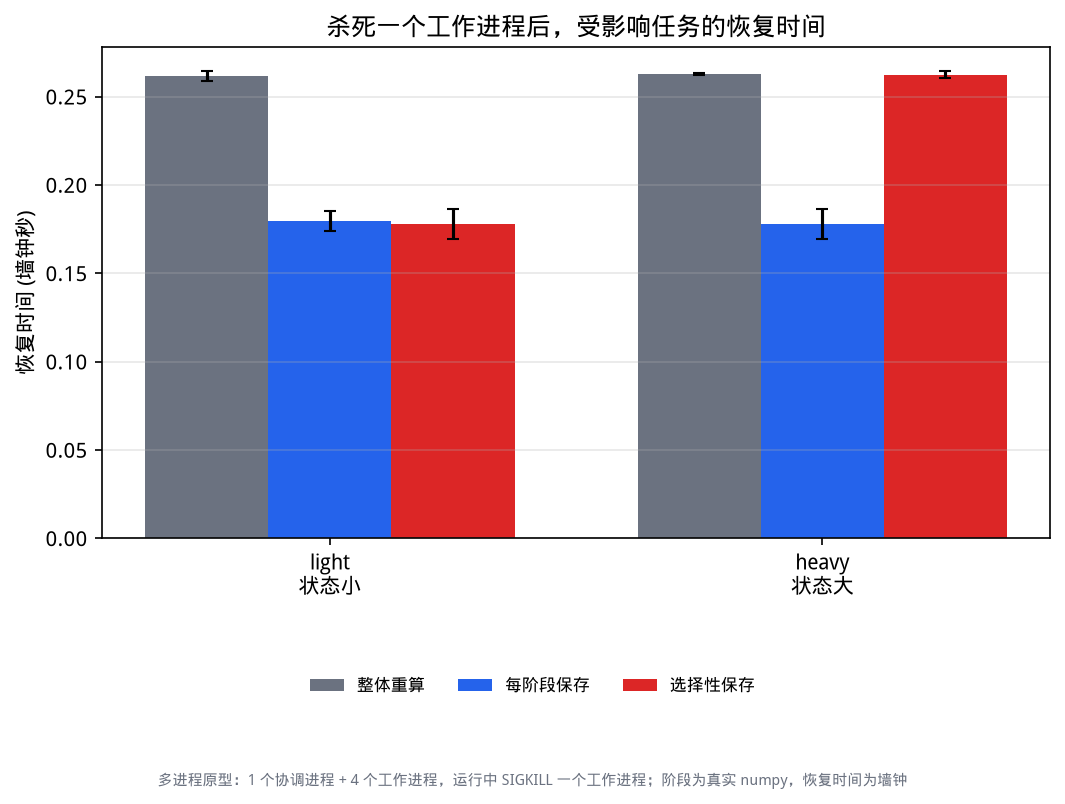
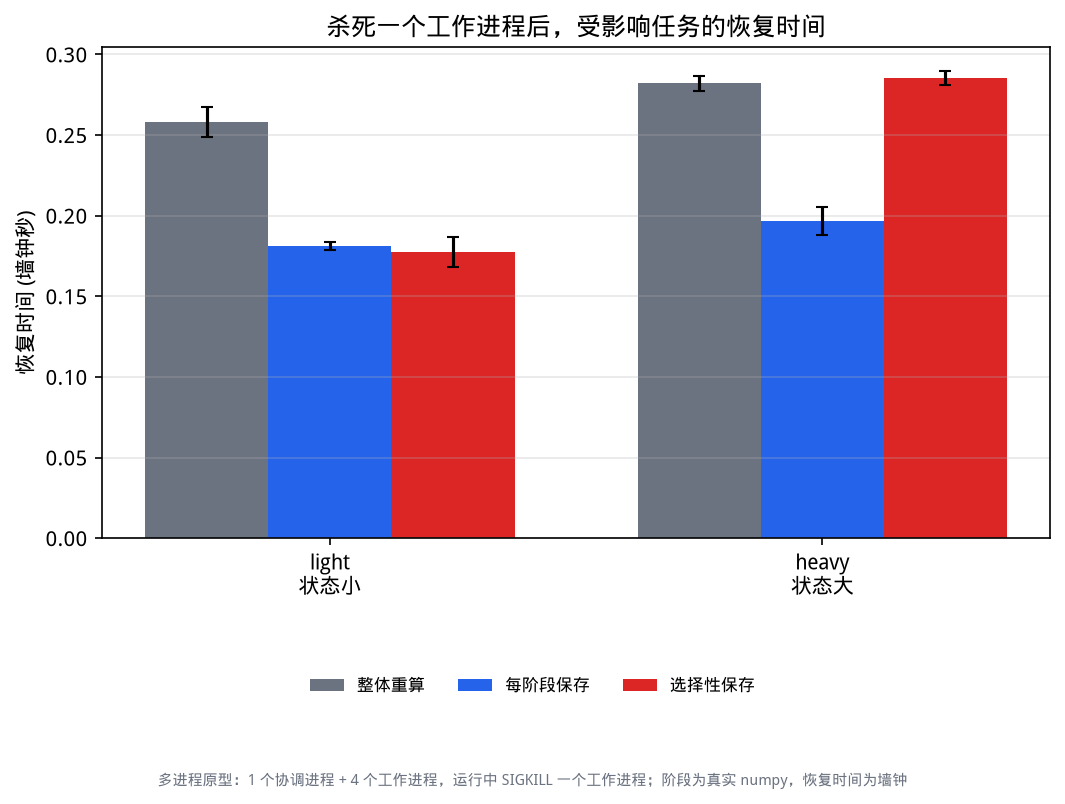
Count multiprocess state transfer as pickled queue bytes.
Large-state checkpoints now carry a real per-record payload, and the reported volume is the ForkingPickler length actually placed on the worker queue. Save-every-stage on that case stays in the tens of megabytes.

diff --git a/02-self-describing-fault-recovery/src/mp_runtime.py b/02-self-describing-fault-recovery/src/mp_runtime.py
@@ -17,6 +17,7 @@ import os
 import signal
 import threading
 import time
+from multiprocessing.reduction import ForkingPickler
 from collections import defaultdict, deque
 from dataclasses import dataclass
 from queue import Empty
@@ -28,6 +29,15 @@ from .policy import should_save
 from .task import N_KEYS, Combo, Data, TaskDesc, digest_data, global_digest, make_partition, run_stage, stage_cost_s
 
 N_STAGES = 3
+
+
+def queued_bytes(obj) -> int:
+    """Length of the pickle Queue puts on the pipe for this object.
+
+    multiprocessing uses ForkingPickler. The checkpoint body is what moves;
+    unallocated simulator padding is not part of ``Data`` and is not counted.
+    """
+    return len(ForkingPickler.dumps(obj))
 
 
 @dataclass(frozen=True)
@@ -146,12 +156,13 @@ def _worker_main(wid, in_q, out_q, combo: Combo, cfg: MpCfg, cur_task, cur_stage
                         out_q.put(("bye", wid))
                         return
                     break
-                nbytes = out.nbytes
-                if should_save(cfg.strategy, cfg.lam, acc, nbytes, cfg.bw, cfg.s0):
-                    out_q.put(("ckpt", wid, desc.task_id, stage, out, dt, cost, nbytes))
+                # P_k uses the bytes that would actually be pickled, not logical pad.
+                persist = queued_bytes(out) if cfg.strategy == "selective" else 0
+                if should_save(cfg.strategy, cfg.lam, acc, persist, cfg.bw, cfg.s0):
+                    out_q.put(("ckpt", wid, desc.task_id, stage, out, dt, cost))
                     acc = 0.0
                 else:
-                    out_q.put(("progress", wid, desc.task_id, stage, dt, cost, nbytes))
+                    out_q.put(("progress", wid, desc.task_id, stage, dt, cost))
                 ack = in_q.get()
                 if ack[0] == "shutdown":
                     out_q.put(("bye", wid))
@@ -257,6 +268,8 @@ def run_job(combo: Combo, cfg: MpCfg, kill: Optional[KillSpec] = None) -> dict:
                 "saved_stages": desc.saved_stages,
             })
             in_qs[wid].put(("assign", desc, data))
+            if desc.input_ref.startswith("ckpt:"):
+                st["recovery_load_bytes"] += queued_bytes(data)
 
     def _requeue(task_id: str):
         if task_id in done or task_id in inflight.values():
@@ -270,7 +283,6 @@ def run_job(combo: Combo, cfg: MpCfg, kill: Optional[KillSpec] = None) -> dict:
             data = ckpt_data[(task_id, k)]
             ref = f"ckpt:{task_id}:{k}"
             stage = k + 1
-            st["recovery_load_bytes"] += int(data.nbytes)
             st["from_ckpt"] += 1
         else:
             data = make_partition(idx, combo, cfg.data_seed)
@@ -320,8 +332,7 @@ def run_job(combo: Combo, cfg: MpCfg, kill: Optional[KillSpec] = None) -> dict:
             st["reexec_stages"] += 1
             st["reexec_wall"] += float(dt)
         elif kind == "ckpt":
-            nbytes = int(data.nbytes)
-            st["ckpt_bytes"] += nbytes
+            st["ckpt_bytes"] += queued_bytes(data)
             saved[task_id].append(stage)
             ckpt_data[(task_id, stage)] = data
         elif kind == "final":

diff --git a/02-self-describing-fault-recovery/src/task.py b/02-self-describing-fault-recovery/src/task.py
@@ -33,8 +33,9 @@ class Combo:
     filter_cost_us: float
     transform_cost_us: float
     aggregate_cost_us: float
-    pad_bytes: int              # padding carried by every record after filter/transform
+    pad_bytes: int              # logical padding for the simulator; not allocated
     desc: str = ""
+    wire_payload: int = 0       # real bytes/record carried in multiprocess checkpoints
 
     def plan(self) -> Tuple[StageSpec, ...]:
         return (StageSpec("filter", self.filter_cost_us), StageSpec("transform", self.transform_cost_us),
@@ -71,16 +72,19 @@ class Data:
     key: np.ndarray
     val: np.ndarray
     pad: int
+    extra: Optional[np.ndarray] = None  # real payload pickled with multiprocess checkpoints
 
     @property
     def nbytes(self) -> int:
+        """Logical size used by the single-process simulator (includes unallocated pad)."""
         return int(len(self.key) * (BASE_RECORD_BYTES + self.pad))
 
 
 def make_partition(task_idx: int, combo: Combo, seed: int) -> Data:
     rng = np.random.default_rng(seed * 100003 + task_idx)
     n = combo.records_per_task
-    return Data(rng.integers(0, N_KEYS, n), rng.normal(0.0, 1.0, n), 0)
+    extra = np.zeros((n, combo.wire_payload), dtype=np.uint8) if combo.wire_payload else None
+    return Data(rng.integers(0, N_KEYS, n), rng.normal(0.0, 1.0, n), 0, extra)
 
 
 def digest_data(d: Data) -> str:
@@ -92,16 +96,17 @@ def digest_data(d: Data) -> str:
 def run_stage(i: int, d: Data, combo: Combo) -> Data:
     if i == 0:   # filter: keep records with value > -0.1 (about 54 %)
         m = d.val > -0.1
-        return Data(d.key[m], d.val[m], combo.pad_bytes)
+        extra = None if d.extra is None else d.extra[m]
+        return Data(d.key[m], d.val[m], combo.pad_bytes, extra)
     if i == 1:   # transform: deterministic numeric map
         v = d.val
         for _ in range(3):
             v = np.tanh(v * 1.5) + 0.1 * v * v
-        return Data(d.key, v, combo.pad_bytes)
-    # aggregate: per-key sum and count
+        return Data(d.key, v, combo.pad_bytes, d.extra)
+    # aggregate: per-key sum and count; the bulk payload is not part of the final vector
     s = np.bincount(d.key, weights=d.val, minlength=N_KEYS)
     c = np.bincount(d.key, minlength=N_KEYS).astype(np.float64)
-    return Data(np.arange(N_KEYS), np.concatenate([s, c]), 0)
+    return Data(np.arange(N_KEYS), np.concatenate([s, c]), 0, None)
 
 
 def stage_cost_s(i: int, n_in: int, combo: Combo) -> float:

diff --git a/02-self-describing-fault-recovery/tests/test_mp.py b/02-self-describing-fault-recovery/tests/test_mp.py
@@ -9,12 +9,12 @@ import signal
 
 import numpy as np
 
-from src.mp_runtime import ConfirmLog, KillSpec, MpCfg, run_job
+from src.mp_runtime import ConfirmLog, KillSpec, MpCfg, queued_bytes, run_job
 from src.policy import should_save
 from src.task import N_KEYS, Combo, Data, global_digest, make_partition, run_stage
 
 LIGHT = Combo("L", 1200, 5.0, 10.0, 2.0, 16, "轻")
-HEAVY = Combo("H", 1200, 5.0, 10.0, 2.0, 2_000_000, "状态大")
+HEAVY = Combo("H", 200, 5.0, 10.0, 2.0, 16, "状态大", wire_payload=8192)
 
 
 def test_should_save_recompute_per_stage_and_selective():
@@ -78,14 +78,33 @@ def test_fault_free_matches_sequential_and_strategies():
     assert len(set(digests)) == 1
 
 
+def test_state_transfer_counts_pickled_bytes_not_logical_pad():
+    """Huge unallocated pad must not show up in the transfer metric."""
+    padded = Combo("pad", 40, 5.0, 10.0, 2.0, 8_000_000, "仅逻辑填充")
+    result = run_job(padded, MpCfg(strategy="per_stage", n_workers=3, n_tasks=1, min_stage_s=0,
+                                   data_seed=0, timeout_s=20))
+    data = make_partition(0, padded, 0)
+    expect = 0
+    logical = 0
+    for stage in range(2):
+        data = run_stage(stage, data, padded)
+        expect += queued_bytes(data)
+        logical += data.nbytes
+    assert result["ckpt_bytes"] == expect
+    assert logical > result["ckpt_bytes"] * 50
+    assert result["ckpt_bytes"] < 100_000
+
+
 def test_heavy_state_selective_keeps_less_than_per_stage():
     common = dict(n_workers=3, n_tasks=2, min_stage_s=0, data_seed=1, lam=1.0, timeout_s=20)
+    light = run_job(LIGHT, MpCfg(strategy="per_stage", **common))
     recomputed = run_job(HEAVY, MpCfg(strategy="recompute", **common))
     per_stage = run_job(HEAVY, MpCfg(strategy="per_stage", **common))
     selective = run_job(HEAVY, MpCfg(strategy="selective", **common))
     assert recomputed["ckpt_bytes"] == 0
     assert selective["ckpt_bytes"] == 0
-    assert per_stage["ckpt_bytes"] > 0
+    assert per_stage["ckpt_bytes"] > light["ckpt_bytes"] * 5
+    assert per_stage["ckpt_bytes"] < 20_000_000
     assert recomputed["digest"] == per_stage["digest"] == selective["digest"]
 
 

diff --git a/02-self-describing-fault-recovery/src/mp_experiment.py b/02-self-describing-fault-recovery/src/mp_experiment.py
@@ -31,9 +31,11 @@ N_WORKERS = 4
 N_TASKS = 3
 REPS = 4
 MIN_STAGE_S = 0.08
+# Heavy checkpoints carry 2048 real bytes per surviving record (~4 MB each).
+# Three tasks × two saved stages stay in the tens of MB once pickled.
 COMBOS = {
-    "light": Combo("light", 4000, 5.0, 10.0, 2.0, 16, "状态小"),
-    "heavy": Combo("heavy", 4000, 5.0, 10.0, 2.0, 1_048_576, "状态大"),
+    "light": Combo("light", 4000, 5.0, 10.0, 2.0, 16, "状态小", wire_payload=0),
+    "heavy": Combo("heavy", 4000, 5.0, 10.0, 2.0, 16, "状态大", wire_payload=2048),
 }
 FOOT = "多进程原型：1 个协调进程 + 4 个工作进程，运行中 SIGKILL 一个工作进程；阶段为真实 numpy，恢复时间为墙钟"
 
@@ -214,7 +216,7 @@ def figs(summary):
     fig, axes = plt.subplots(1, 2, figsize=(10.5, 4.2))
     panels = (
         (axes[0], "duplicate_compute_s_mean", "duplicate_compute_s_std", "重复计算 (墙钟秒)", "重复计算（重做阶段 + 被杀死的部分）"),
-        (axes[1], "state_transfer_MB_mean", "state_transfer_MB_std", "状态传输量 (MB)", "状态传输量（检查点 + 恢复装载，逻辑字节）"),
+        (axes[1], "state_transfer_MB_mean", "state_transfer_MB_std", "状态传输量 (MB)", "状态传输量（检查点 + 恢复装载，序列化字节）"),
     )
     for ax, key, err, ylabel, title in panels:
         for j, strategy in enumerate(STRATS):

diff --git a/02-self-describing-fault-recovery/README.md b/02-self-describing-fault-recovery/README.md
@@ -31,7 +31,22 @@ python3 -m pytest -q
 - 工作进程在阶段执行期间写心跳。协调端发现进程退出，或心跳超时，就把该任务从未完成阶段重新派发（有检查点则从检查点之后继续，否则从头算）。
 - 故障注入是对正在执行目标阶段的工作进程发送 `SIGKILL`，不是把节点标记成“已死”。
 
-状态传输量按记录的逻辑字节计（含填充，与仿真一致）。保存判决使用和仿真相同的 `C_k`、`P_k`，恢复时间用墙钟。范围是单个工作进程崩溃。
+多进程的状态传输量是检查点经 `multiprocessing` 的 `ForkingPickler` 序列化后的字节数，也就是放进队列、真正发到对方进程的体积。恢复时把同一检查点再发回去，按同样的长度再计一次。未分配的填充不进入这个数。单进程仿真仍用含填充的逻辑字节，以便扫大规模组合时不把填充放进内存。
+
+多进程里「状态大」是每条中间记录附带 2048 字节的真实载荷（过滤后大约 4 MB/检查点）。3 个任务、每阶段保存时，故障运行的状态传输量约 31 MB。保存判决里的 `P_k` 用这个序列化长度。恢复时间用墙钟。范围是单个工作进程崩溃。
+
+一次完整实验（`figs/mp_meta.csv`，墙钟 23.15 s，24/24 与无故障摘要一致）的均值：
+
+| 规模 | 策略 | 恢复时间 | 重复计算 | 状态传输 |
+|------|------|----------|----------|----------|
+| 状态小 | 整体重算 | 0.258 s | 0.081 s | 0 |
+| 状态小 | 每阶段保存 | 0.181 s | 0.002 s | 0.244 MB |
+| 状态小 | 选择性保存 | 0.178 s | 0.001 s | 0.244 MB |
+| 状态大 | 整体重算 | 0.282 s | 0.080 s | 0 |
+| 状态大 | 每阶段保存 | 0.197 s | 0.001 s | 31.262 MB |
+| 状态大 | 选择性保存 | 0.286 s | 0.082 s | 0 |
+
+状态小时选择性保存会留下检查点。状态大时序列化后的 `P_k` 高于 `C_k`，选择性保存不再写检查点，传输量为 0，重复计算与整体重算相同。
 
 ```bash
 python3 -m src.mp_experiment   # 4 个工作进程、3 个任务；两种规模 × 三种策略 × 4 次；写 CSV 和图
